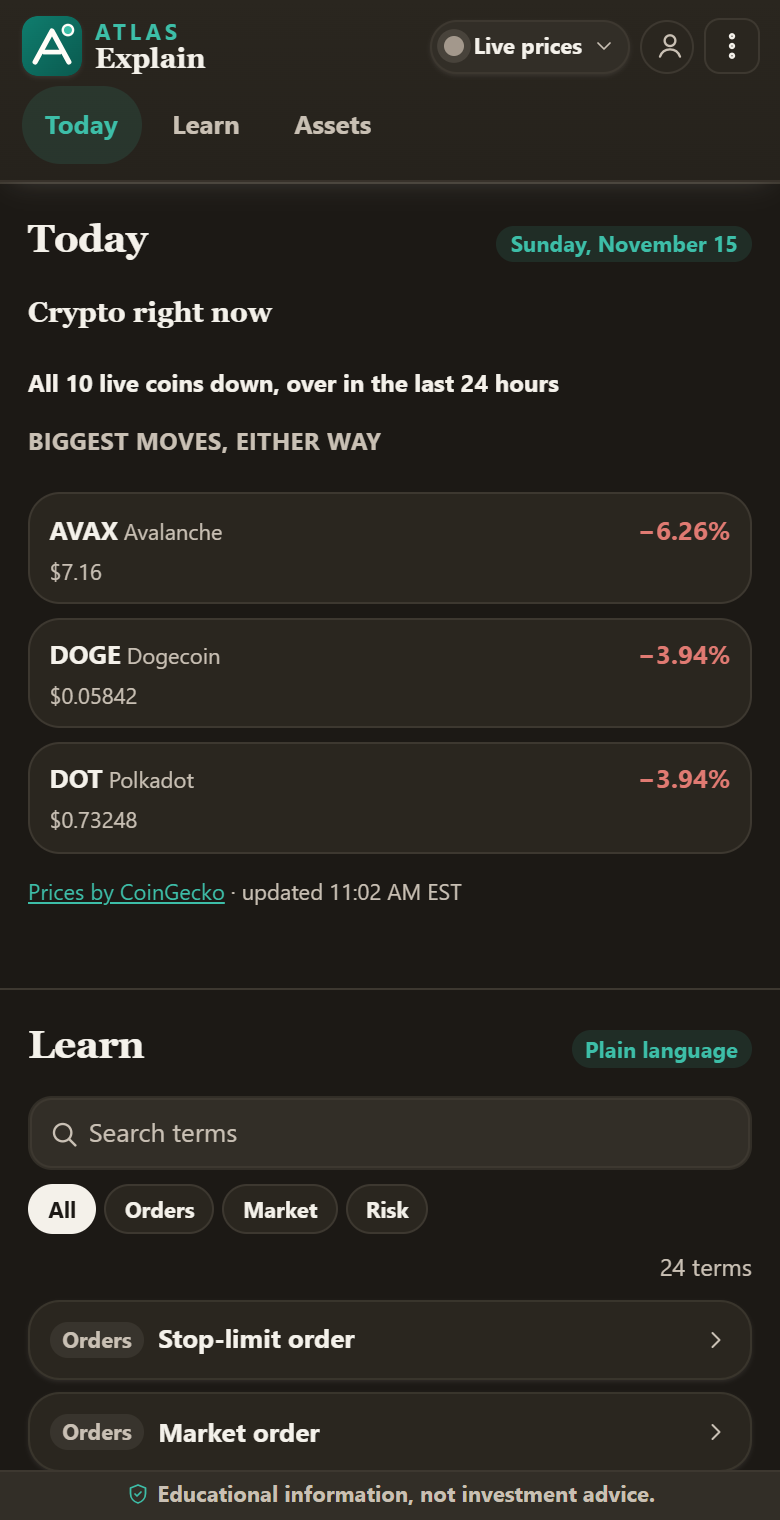
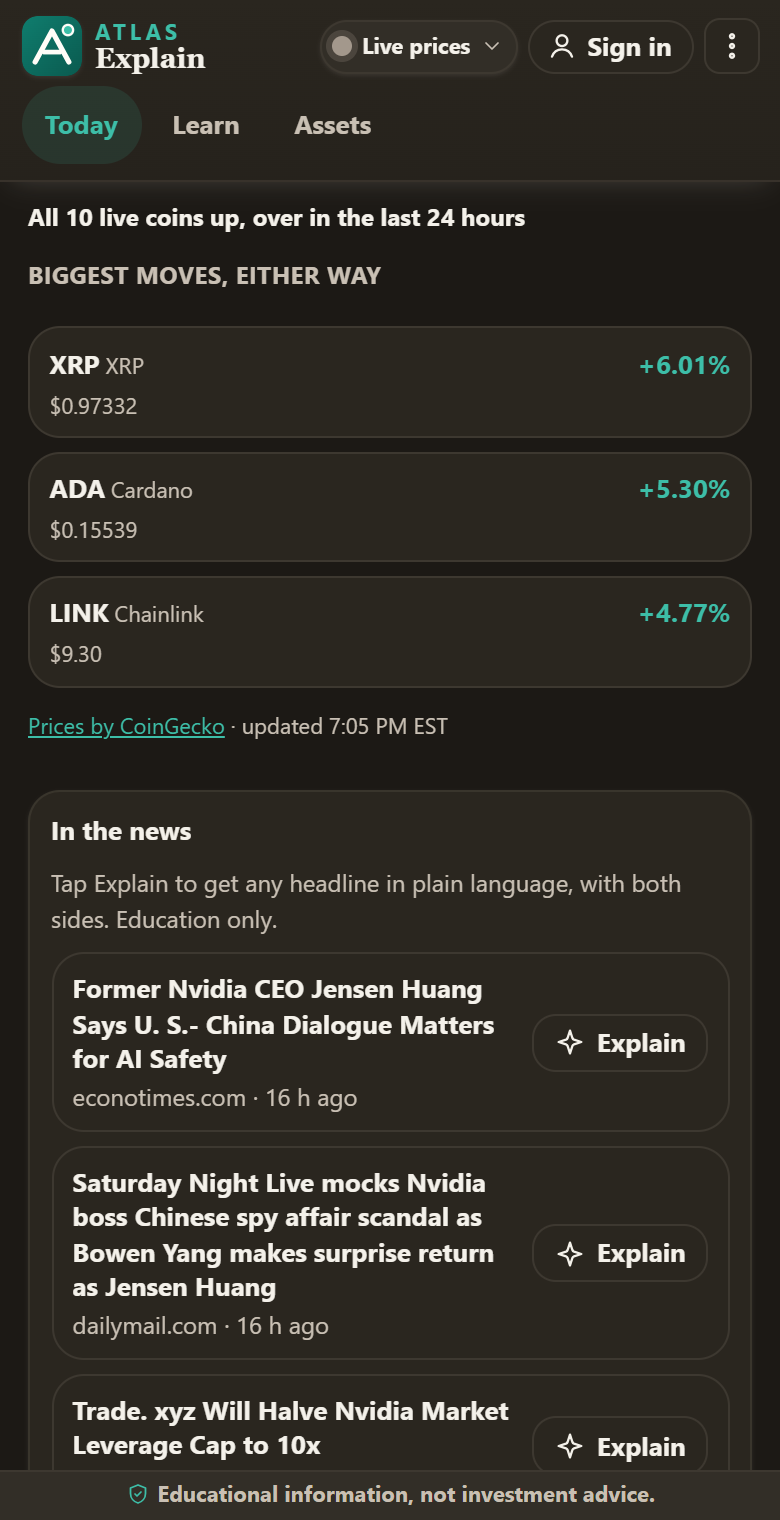
docs: hackathon-ready (demo script, checklist, handover, Devpost draft, stills); fixes
- docs/DEVPOST.md: a Devpost write-up drawn only from what ships, with
  the hybrid inference core, the three surfaces (extension, web app, MCP
  connector), data honesty and the education-only line.
- docs/DEMO.md: shot 1 follows the new home page; shot 12 now shows the
  AI-assistant connector and its chart in Claude (replacing Settings);
  a setup step for the connector; the stills list names the new shots.
- docs/SUBMISSION.md: the connector and the Sign in flow in the features
  the write-up must name; privacy checks run against the builds and
  ticked (manifest, trade words, no debug token, no secret keys).
- docs/HANDOVER.md: current site map and state.
- Stills: site-home, site-connect, signin, hosted-header and hosted-full
  captured from the live site by store/src/capture-site.mjs.
- The popup no longer reads an unused appCheckDebugToken storage key.
- "over in the last 24 hours" no longer appears: a change window that
  already reads as a phrase is kept as it is (with a test).

diff --git a/extension/src/popup.ts b/extension/src/popup.ts
@@ -69,8 +69,8 @@ if (!(host instanceof HTMLElement)) throw new Error("Missing #app");
 installErrorBoundary(host);
 
 const store = {
-  async get(): Promise<{ theme?: unknown; appCheckDebugToken?: unknown; onboarded?: unknown; history?: unknown; learned?: unknown }> {
-    if (hasChrome) return chrome.storage.local.get(["theme", "appCheckDebugToken", "onboarded", HISTORY_KEY, LEARN_KEY]);
+  async get(): Promise<{ theme?: unknown; onboarded?: unknown; history?: unknown; learned?: unknown }> {
+    if (hasChrome) return chrome.storage.local.get(["theme", "onboarded", HISTORY_KEY, LEARN_KEY]);
     return {};
   },
   async set(patch: Record<string, unknown>): Promise<void> {

diff --git a/test/live-snapshot.test.ts b/test/live-snapshot.test.ts
@@ -34,3 +34,12 @@ describe("live snapshot", () => {
     expect(snapshotTime("2026-11-13T23:00:00Z", "en-US")).toMatch(/\d/);
   });
 });
+
+describe("change window wording", () => {
+  it("never says 'over in the last 24 hours'", async () => {
+    const { changeWindowText } = await import("../src/core/assets");
+    expect(changeWindowText({ changeWindow: "in the last 24 hours" })).toBe("in the last 24 hours");
+    expect(changeWindowText({ changeWindow: "since 00:00 UTC" })).toBe("since 00:00 UTC");
+    expect(changeWindowText({ changeWindow: "24h" })).toBe("over 24h");
+  });
+});

diff --git a/src/core/assets.ts b/src/core/assets.ts
@@ -321,7 +321,8 @@ export function formatChange(pct: number | null): { text: string; tone: "up" | "
 
 /** "over 24h" / "since the 2026-11-06 close". */
 export function changeWindowText(q: Pick<QuoteView, "changeWindow">): string {
-  return /^since\b/i.test(q.changeWindow) ? q.changeWindow : `over ${q.changeWindow}`;
+  // A window that already reads as a phrase ("since …", "in the last 24 hours") is kept as it is.
+  return /^(since|in)\b/i.test(q.changeWindow) ? q.changeWindow : `over ${q.changeWindow}`;
 }
 
 export function hitLabel(l: LeanView): string {

diff --git a/docs/DEMO.md b/docs/DEMO.md
@@ -2,7 +2,7 @@
 
 About three minutes. A real on-device recording has to be made on the presenter's laptop in Chrome (139 or newer) with Gemini Nano available. This repository can script the shots and host the app; it cannot produce the Nano badge from a cloud or remote session.
 
-Every screen below is in the shipped build (last checked against it on 15 Nov 2026). Nothing is mocked. Education only: never say buy, sell, or "signal to trade."
+Every screen below is in the shipped build (last checked against it on 15 Nov 2026, after the AI-assistant connector and the Sign in page shipped). Nothing is mocked. Education only: never say buy, sell, or "signal to trade."
 
 ## Why this has to be recorded on the laptop
 
@@ -25,8 +25,9 @@ If Nano is missing, the badge will honestly say **Cloud**. Do not edit the badge
 4. Optional, for the desk segment only: start the private ATLAS desk at `http://localhost:3000/markets` with the usual deploy script. Without it, skip shots A1 to A3.
 5. For the "ATLAS connected" header (desk segment only): use the loaded extension on a loopback page, or open a local preview at `http://localhost:4173/app` (not `127.0.0.1`, if the preview bound only to localhost). Dismiss the first-run steps (the **Skip** button) so the header pill is visible.
 6. For the hosted header: open https://atlas-explain.web.app/app in a clean tab and dismiss the first-run steps. The pill reads "Live prices"; the web app never calls localhost, and the ATLAS-only parts are hidden. If a cloud answer says the security check could not confirm this browser, reload once; App Check blocks automated browsers, so record in your normal Chrome.
-7. Close password managers, email, vault windows, and any ATLAS panel that could show balances, keys, or account numbers.
-8. Turn off the App Check debug token overlay if it is visible. Do not show `.env`, DevTools with secrets, or Credential Manager.
+7. For shot 12 (the AI-assistant connector): in Claude (claude.ai or the desktop app), add ATLAS Explain as a custom connector with the address on https://atlas-explain.web.app/connect, turn it on in a new chat, and run the shot's prompt once beforehand so Claude doesn't ask for permission on camera. Check the answer shows the chart and a "Collected … by ATLAS Explain's data job" line from today; if it says the prices are hours or days old, refresh the data site first (docs/HANDOVER.md).
+8. Close password managers, email, vault windows, and any ATLAS panel that could show balances, keys, or account numbers.
+9. Turn off the App Check debug token overlay if it is visible. Do not show `.env`, DevTools with secrets, or Credential Manager.
 
 Keyboard shortcuts in the shipped extension (see `extension/manifest.json`):
 
@@ -37,11 +38,11 @@ Keyboard shortcuts in the shipped extension (see `extension/manifest.json`):
 
 Times are a guide. Keep the total near three minutes. If a shot fails, retake that shot; do not leave a wrong header or a cloud badge in the on-device segment.
 
-The story is the public product: one web page and a three-tab extension, both explaining on the device first and in the cloud only when they must. The private ATLAS desk is an optional extra (shots A1 to A3 below); the demo works without it.
+The story is the public product: one web page, a three-tab extension and an AI-assistant connector, all from one codebase, explaining on the device first and in the cloud only when they must. The private ATLAS desk is an optional extra (shots A1 to A3 below); the demo works without it.
 
 | Shot | Time | Where | Do | Must be visible | Say |
 | --- | --- | --- | --- | --- | --- |
-| 1 | 0:00-0:12 | https://atlas-explain.web.app (clean tab, desktop) | Open the home page, then click **Try it in your browser**. | Home page, then the web app on one page: **Explain** at the top, links to Today, Learn and Assets in the header, pill **Live prices**. | "ATLAS Explain turns market jargon into plain language. Here is the web app: one page, Explain first." |
+| 1 | 0:00-0:12 | https://atlas-explain.web.app (clean tab, desktop) | Open the home page (header: How it works, Web app, AI assistants, Support, **Sign in**), then click **Open the web app**. | Home page, then the web app on one page: **Explain** at the top, links to Today, Learn and Assets in the header, pill **Live prices**, a **Sign in** button. | "ATLAS Explain turns market jargon into plain language. Here is the web app: one page, Explain first. Signing in is optional." |
 | 2 | 0:12-0:30 | Web app, Explain | Click the example **Bid-ask spread**. Wait for the answer. | A badge that says where it ran (**On this device** when Nano is ready, **Cloud** when it is not; the web app tries Nano first too), two sides, **Keep going** chips, the line saying where it ran and the education line. | "The web app tries Gemini Nano on this device first. On a phone, or a computer without it, the answer comes from Gemini in the cloud, and the badge says which one ran. Two sides, never an instruction." |
 | 3 | 0:30-0:40 | Practice page, https://atlas-explain.web.app/welcome | Highlight "RSI(14) crossed above 70 while price tagged the upper Bollinger Band". | Practice page only; no prices, no account. | "Now the extension, on any page. I highlight one sentence." |
 | 4 | 0:40-0:52 | Same page | Press `Alt+Shift+X`, or right-click and choose **Explain with ATLAS**. (`Alt+Shift+E` opens the popup without explaining.) | Popup opening, the strip reading **On-device ready**, then the answer. | "Only the highlighted text, the page title and the site name leave the page. Nothing else on the page is read." |
@@ -52,7 +53,7 @@ The story is the public product: one web page and a three-tab extension, both ex
 | 9 | 1:52-2:05 | Popup, **Learn** tab | Open a term, then **Got it** on the learn path. | Glossary copy, progress kept on the device. | "A short path through every term, progress kept on the device." |
 | 10 | 2:05-2:20 | Popup, **Assets** tab | Show Bitcoin and one stock. | Crypto with **Live** and **CoinGecko** and a price; stocks with official SEC figures and "Price not shown" with the reason. | "Every number names its source. Where a price is not licensed for public display, it says so instead of making one up." |
 | 11 | 2:20-2:35 | Web app tab | Click the logo, then **Learn**, then **Assets** in the header. | The one page scrolling between sections; header pill **Live prices**. | "The web app is one page. The hosted app never calls localhost, so the pill honestly says Live prices." |
-| 12 | 2:35-2:50 | Popup, menu (top right) | Open the menu, choose **Settings**. | The plan card ("Everything is included"), appearance, how answers are made. | "Settings open from the menu. Free during the hackathon; billing is built in and switched off." |
+| 12 | 2:35-2:50 | Claude, with the ATLAS Explain connector on | Ask: "Show me Bitcoin's price over the last 7 days with ATLAS Explain." | The `price_history` tool step, the interactive chart (hover to show the price readout, click **30D**), and the source line "Collected … by ATLAS Explain's data job … Prices: Kraken public market data". | "The same ATLAS Explain works inside AI assistants as an MCP connector: glossary, official figures, crypto prices and charts, each with its source and time. Read-only, no account, and it's in the official MCP Registry." |
 | 13 | 2:50-3:00 | Any screen | Hold on the footer. | "Educational information, not investment advice." | "Educational information, not investment advice." |
 
 ### Optional ATLAS desk segment (skip if the desk is not running)
@@ -67,11 +68,15 @@ Only for a presenter who runs the private desk at `http://localhost:3000/markets
 
 ## Desktop opening frame
 
-https://atlas-explain.web.app opens with the extension-first home page: select any market term, the three-step route (your highlight, Gemini Nano on this device, Gemini in the cloud through Firebase AI Logic), the install steps, and links to the web app and the source. It is a good first frame for judges.
+https://atlas-explain.web.app opens with the home page: "Chrome extension · Web app · AI-assistant connector", select any market term, the three-step route (your highlight, Gemini Nano on this device, Gemini in the cloud through Firebase AI Logic), the extension section, the AI-assistant section, and links to the web app, /connect and the source. It is a good first frame for judges.
 
 ## Still frames for the README
 
-Stills in `docs/screenshots/`. Six were retaken on 15 Nov 2026; `local-header.png` and `desk-explain-link.png` are older:
+Stills in `docs/screenshots/`. `site-home`, `site-connect`, `signin`, `hosted-header` and `hosted-full` are captured from the live site by `node store/src/capture-site.mjs` (last run 15 Nov 2026, after the Sign in page shipped); `local-header.png` and `desk-explain-link.png` are older:
+
+- `site-home.png`: the website home page (header with Sign in, "Chrome extension · Web app · AI-assistant connector")
+- `site-connect.png`: ATLAS Explain for AI assistants (/connect), with the connector address
+- `signin.png`: the Sign in page (/signin)
 
 - `hosted-header.png` — hosted web app, pill **Live prices**, header links Today, Learn and Assets
 - `local-header.png` — local loopback build, pill **ATLAS connected** (retake with ATLAS running: it predates the one-page layout and shows "ATLAS local"; load the app at `http://localhost:5173`, not `[::1]`, since the app looks for ATLAS only on `localhost` and `127.0.0.1`)

diff --git a/docs/HANDOVER.md b/docs/HANDOVER.md
@@ -51,11 +51,11 @@ ATLAS Explain is a Chrome extension (MV3), a website and web app, and a hosted M
 
 **One-page app (14 Nov 2026).** After a visual audit the owner asked for the web app on one page. `/app` is now one scrolling page: Explain, Today, Learn, Assets. There is no sidebar or bottom bar: the header has the logo (back to Explain) and three links, Today, Learn and Assets. Account and settings are a sheet behind the header account button. The extension popup is unchanged. Crypto prices are kept in the browser between loads (`atlas-explain-live-prices`), reused for a minute and shown for up to 15 minutes if the free feed refuses a request, always with their own time. Details: `docs/ux/APP_ARCHITECTURE.md`. Store screenshots of the web app and the click path in `docs/DEMO.md` predate this and need redoing.
 
-**Site map (agreed 14 Nov 2026).** The public site is four pages: Home, Support, Privacy, Terms. "How it works" is folded into Home (`/#how-it-works`, `/#install`); `/how-it-works` redirects to `/`. Welcome opens only after install. "How it's built" stays for the hackathon judges until 30 Nov 2026, then should be folded into Home too. The extension popup has three tabs (Explain, Learn, Assets); Settings is a sheet opened from its menu, and the Signal tab still appears only while ATLAS is running.
+**Site map (agreed 14 Nov 2026, updated 15 Nov).** The website opens first at the root; the app is under /app. The public site is Home, AI assistants (/connect), Support, Privacy and Terms, with one shared header and footer (`src/site/frame.ts`): How it works, Web app, AI assistants, Support, and "Sign in" (your initials and "Account" when signed in on this browser). "Sign in" leads to the Sign in page at /signin (Google or email link, or "Continue without an account"), then into the app; the app header has "Sign in" or an account menu (Account and settings, Your data, Sign out). Signing in stays optional. "How it works" is folded into Home (`/#how-it-works`, `/#install`); `/how-it-works` redirects to `/`. Welcome opens only after install. "How it's built" stays for the hackathon judges until 30 Nov 2026, then should be folded into Home too. The extension popup has three tabs (Explain, Learn, Assets); Settings is a sheet opened from its menu, and the Signal tab still appears only while ATLAS is running.
 
 **One back end, one front end (owner direction, 14 Nov 2026).** The owner wants no duplicated front ends or back ends. Step 1 is done: `src/platform/web/explain-service.ts` is the one back end. The web app (`backend.ts`) and the extension's bridge page (`src/bridge/main.ts`) both start Firebase, read settings, check limits, call the model and count usage through it; neither has its own copy. Two things stay separate on purpose: the popup tries Gemini Nano itself first (no Firebase is loaded in the popup), and the bridge page still exists because App Check cannot attest an extension page. Step 2, in progress: one front end. Done so far: Settings is built once in `src/wallet/settings.ts` (`buildSettings`) and used by both surfaces; a surface only passes what it can do (the popup: page tools, account row, ATLAS permission; the web app: the full Your data group, usage statistics, Terms). Explain is also built once now: `src/wallet/explain-panel.ts` (`explainPanel`) owns the box, the button, progress, the answer card with follow-ups and related terms, errors and Recent. A surface supplies only `ask` (`askWeb` in `src/web/app.ts`, `askPopup` in `extension/src/popup.ts`) and where history is kept. The web app still stores history under `atlas-explain-text-history` in its old shape (it is part of Download my data) and converts at the edge. Audit on 15 Nov 2026 of what each surface still builds itself. Shared now, one module each: Settings (`src/wallet/settings.ts`), Explain (`src/wallet/explain-panel.ts`), Learn (`src/wallet/learn-section.ts`, learn path and glossary, loaded on demand on both), Assets (`src/wallet/assets-controller.ts`), the onboarding screens (`onboarding()` in `src/wallet/cards.ts`), the header status pill (`connectionFor`), the digest card wording (`buildMarketDigest`). Asking about an asset or a term behaves the same on both: go to Explain and answer now. What each entry file still does itself, on purpose, because the platform differs: how it gets an answer (`askWeb` / `askPopup`), where it keeps history and progress (localStorage / chrome.storage), sign-in (the web app signs in; the popup reads the account through the bridge), Today (the web page shows live crypto movers; the popup has no Today tab, only an ATLAS digest row for ATLAS users), page tools (pin button, side panel, reading the highlight: popup only), routing and addresses (web only). The web app's market-move flow (reached from ATLAS desk links) keeps only its inputs (the move card, samples, question, private notes); since 15 Nov 2026 its answers, follow-ups, errors and Recent come from the shared Explain panel (`askMove` in `src/web/app.ts`). Move answers are still saved to the account (Firestore) and included in Download my data; the separate "Recent explanations" list that showed them inside the move box was removed, and they appear in the shared Recent on this browser instead. The two entry files cannot become one file: Chrome loads the popup from the extension package and the web app from the website, so each needs its own short launcher.
 
-**State on 14 Nov 2026:** every PR above, plus the audit, pricing and catalog docs, is merged into `main`. `main` is the only branch, locally and on GitHub; all other branches were checked for unmerged work and then deleted. Work on new short-lived branches off `main`, then merge back. The live site matches `main`.
+**State on 15 Nov 2026:** every PR above and every later feature branch is merged into `main`, and the live site and the MCP server match `main`. Feature branches are kept on GitHub after merging (all merged; check with `git branch --no-merged main`). Work on new short-lived branches off `main`, run release:check, then merge back. For the hackathon, `docs/SUBMISSION.md` is the checklist, `docs/DEVPOST.md` the write-up draft and `docs/DEMO.md` the shot list.
 
 ## Approved pricing (docs/PRICING.md)
 

diff --git a/docs/DEVPOST.md b/docs/DEVPOST.md
@@ -1,0 +1,66 @@
+# Devpost write-up (draft, ready to paste)
+
+For the #BuildHybridAI submission (deadline 30 Nov 2026, 2:00 PM PT). Every claim below is in the shipped product as of 15 Nov 2026; re-read it against the live app before submitting, and add the demo video link. Education only: the write-up never tells anyone to trade.
+
+---
+
+## Tagline
+
+Market jargon in plain language: on your device first, in the cloud only when it must, and in your AI assistant too.
+
+## Inspiration
+
+Trading screens, news and filings are full of words beginners can't decode: "stop-limit", "bid-ask spread", "yield curve", "IV crush". Most tools that explain them either push a trade, invent numbers, or send everything you read to a server. We wanted the opposite: a calm explainer that reads only what you select, shows both sides, names every source, and runs on your own computer whenever it can.
+
+## What it does
+
+ATLAS Explain explains market jargon in plain language, with two sides and never an instruction. It ships as three surfaces built from one codebase:
+
+- **Chrome extension.** Highlight a term or sentence on any page and press Alt+Shift+X (or right-click, Explain with ATLAS). Only the highlight, the page title and the site name are used. Gemini Nano answers on the device when Chrome has it; otherwise Gemini answers in the cloud, and every answer says which one ran.
+- **Web app** (atlas-explain.web.app). One page: Explain, Today (the biggest crypto moves and recent headlines, each with source and time), Learn (a plain-language learning path and glossary, with diagrams), and Assets (crypto, about 30 large US companies and ETFs with their SEC-filed figures, currencies, government bond yields, energy prices). Sign-in is optional (Google or a one-time email link) and only keeps your saved explanations across devices.
+- **AI-assistant connector.** A free, read-only MCP server that Claude, ChatGPT, Cursor and VS Code can add by URL. Seven tools (explain a term, browse the learning path, what an asset is, official figures, crypto prices, price history, today's headlines), each answer with its source and time, typed JSON for agents, and an interactive price chart in assistants that support MCP Apps. It's listed in the official MCP Registry.
+
+What it never does: read balances, account numbers, positions or form fields; make up a number (missing data says why); forecast a price; or tell anyone to trade.
+
+## How we built it
+
+- **Firebase AI Logic hybrid inference** is the core path: `InferenceMode.PREFER_ON_DEVICE` tries Gemini Nano in Chrome first and falls back to Gemini in the cloud. The "On this device" / "Cloud" badge is the SDK's own `inferenceSource`, never a guess.
+- **One back end, one front end.** The web app and the extension share one service for settings, limits and the model call, and one Explain panel, Learn section and Assets view. The extension's cloud calls go through a small bridge page on the website, because App Check (reCAPTCHA Enterprise) can't attest an extension page.
+- **Firebase** for hosting, Authentication (Google and email link), Firestore with owner-only rules, Remote Config and App Check, all on the free Spark plan.
+- **Free and official data only.** A scheduled job publishes US Treasury, ECB, Bank of Canada, EIA and SEC EDGAR figures, GDELT headlines, and crypto prices (Kraken, with CoinGecko as backup) to our own data site. Every value carries its source, licence and time; anything missing is shown as missing, with the reason.
+- **The MCP connector** runs on Cloudflare Workers' free plan in TypeScript with no dependencies, reuses the app's own readers, and reads only our data site. It supports the newest MCP spec (2026-07-28, stateless) alongside earlier versions.
+- **Guards in the build:** a release check runs types, lint, more than 500 tests, both builds, a least-privilege manifest check, a bundle budget, npm audit and a scan that fails the build on any trade-advice wording.
+
+## Challenges we ran into
+
+- Making on-device the default without endless spinners: Nano can be "downloadable" for minutes, so answers fall back to the cloud on a deadline while Chrome keeps downloading, and the popup never waits on a model download.
+- Honesty under real-world data: free stock prices can't be shown publicly, so stocks show their official SEC figures and say why there's no price. Prices that stop refreshing say how old they are.
+- App Check with a Chrome extension, solved with a bridge page that only answers the pinned extension ID with a fixed prompt.
+- Getting an authless MCP connector to work in Claude, which meant following the protocol to the letter (version negotiation, headers, discovery).
+
+## Accomplishments we're proud of
+
+- The badge always tells the truth about where the answer ran.
+- One codebase serving an extension, a web app and an MCP connector, without forking any of them.
+- Zero cost to run: free tiers and public data throughout, with no paid services.
+
+## What we learned
+
+Hybrid AI is as much a product decision as a technical one. Telling people where an answer ran, and what data it used, builds more trust than any amount of polish.
+
+## What's next
+
+The Chrome Web Store listing, a commercial licence for crypto prices before any paid plan, and more of the learning path.
+
+## Built with
+
+Firebase AI Logic, Gemini Nano (Chrome Prompt API), Gemini, Firebase Hosting, Firebase Authentication, Cloud Firestore, Remote Config, App Check, reCAPTCHA Enterprise, TypeScript, Vite, Chrome Extensions (Manifest V3), Model Context Protocol, MCP Apps, Cloudflare Workers, GitHub Actions.
+
+## Links
+
+- Live app: https://atlas-explain.web.app
+- AI-assistant connector: https://atlas-explain.web.app/connect
+- Source (Apache-2.0): https://github.com/MISHHF93/atlas-explain
+- Demo video: (add the link)
+
+Educational information, not investment advice. ATLAS Explain never tells anyone to trade.

diff --git a/docs/SUBMISSION.md b/docs/SUBMISSION.md
@@ -2,7 +2,7 @@
 
 Deadline: **30 Nov 2026, 2:00 PM PT** (5:00 PM America/Toronto). Submit on Devpost: https://firebasehybridaihackathon.devpost.com/
 
-The write-up and demo should match the app as it ships today: a public hybrid explainer, a connectors library that talks to local ATLAS over public MCP (with a REST fallback), and an honest header that never pretends to be connected.
+The write-up and demo should match the app as it ships today: a public hybrid explainer (web app and Chrome extension), a hosted read-only MCP connector for AI assistants, a connectors library that talks to local ATLAS over public MCP (with a REST fallback), and an honest header that never pretends to be connected.
 
 ## Must have
 
@@ -12,13 +12,15 @@ The write-up and demo should match the app as it ships today: a public hybrid ex
 - [x] Extension zip built: `npm run build:extension` -> `extension/atlas-explain-chrome.zip`, loads unpacked with no errors.
 - [ ] Demo video (about 3 minutes), following [DEMO.md](DEMO.md), with the on-device badge visible at least once. This has to be recorded on the presenter's laptop with Chrome and Gemini Nano; the shot list and setup steps are in that file.
 - [x] README explains hybrid use, setup, limitations, connectors, and honest header states (see the sections in the root README).
-- [ ] Devpost text states: education only, not investment advice, no buy/sell instructions.
+- [ ] Devpost text states: education only, not investment advice, no buy/sell instructions. Draft ready to paste: [DEVPOST.md](DEVPOST.md) (written 15 Nov 2026; re-read it against the app before submitting).
 - [x] Billing stays off: Remote Config `billing_enabled` is `false` in `remoteconfig.template.json` and in the console.
 
 ## Product features the write-up must name
 
 Keep this list in the Devpost description so the submission matches the tree:
 
+- **AI-assistant connector (MCP).** A free, read-only MCP server on Cloudflare's free plan (`src/mcp/`), with seven tools that match the app, structured output, an interactive chart (MCP Apps), prompts and the glossary as resources. It supports MCP 2026-07-28 and earlier versions, reads only ATLAS Explain's own data site, is listed in the official MCP Registry (`io.github.MISHHF93/atlas-explain`) and was submitted to Claude's connectors directory. Setup: https://atlas-explain.web.app/connect.
+- **Website first, then sign-in, then the app.** The website opens first; "Sign in" leads to a real Sign in page (Google or a one-time email link, or "Continue without an account"), then into the app, with an account menu and Sign out.
 - **One product, two surfaces.** A web app on one page (Explain, Today, Learn, Assets) and a three-tab Chrome extension (Explain, Learn, Assets) share one back end (`src/platform/web/explain-service.ts`: settings, limits, the model call) and one Explain panel (`src/wallet/explain-panel.ts`), so both explain the same way, on the device first.
 - **Hybrid inference.** Chrome tries Gemini Nano on the device first (`PREFER_ON_DEVICE`). The badge is `response.inferenceSource`, not a guessed label.
 - **Connectors library.** `src/connectors/` (documented in [connectors/README.md](connectors/README.md)) is this repo's path, separate from the private ATLAS desk. The ATLAS-local connector prefers `POST /api/mcp/public` and falls back to `GET /api/explain/assets`.
@@ -28,10 +30,13 @@ Keep this list in the Devpost description so the submission matches the tree:
 
 ## Privacy and safety checks before recording
 
-- [ ] Extension reads only the highlight, the title and the site name (`check:manifest` passes; no `content_scripts`, no broad hosts).
-- [ ] No balances, account numbers, positions or keys appear in any screen or prompt.
-- [ ] `npm run check:trade-words` passes.
-- [ ] No App Check debug token in the store build or in the video.
+Checked on 15 Nov 2026 against the builds (re-run `npm run release:check` before recording):
+
+- [x] Extension reads only the highlight, the title and the site name (`check:manifest` passes: activeTab, contextMenus, storage, scripting; host only atlas-explain.web.app; optional localhost:3000; no `content_scripts`).
+- [ ] No balances, account numbers, positions or keys appear in any screen or prompt. (The code never reads them; check the recording itself.)
+- [x] `npm run check:trade-words` passes.
+- [x] No App Check debug token in the store build: the web app and the bridge only accept one in development builds, and the popup's leftover storage key was removed. Keep it out of the video too.
+- [x] No secret keys in any build (no Stripe or other secret keys; the Firebase web API key is public by design and restricted by App Check).
 - [ ] No private ATLAS code, models, signals or data in this repo. The desk is shown only as a running app on the presenter's own computer.
 
 ## Nice to have
